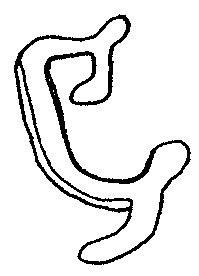
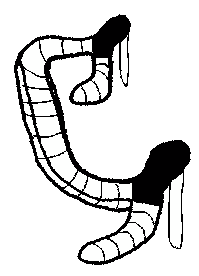
Add scaling, mobile apology and re-color everything but the frame

diff --git a/bike.ts b/bike.ts
@@ -364,6 +364,8 @@ function drawIconGroup(
             drawIconGroup(ctx, child, startState, endState, progress, offset)
         }
     }
+
+    // Replace all instances of 
 }
 
 function drawImg(ctx: CanvasRenderingContext2D, img: HTMLImageElement, [dx, dy]: [number, number]) {
@@ -449,7 +451,7 @@ function getLabel(rgb: [number, number, number]) {
     
     if(eq(rgb, [0, 0, 1]) || eq(rgb, [255, 255, 254])) return "frame"
     if(eq(rgb, [0, 1, 0]) || eq(rgb, [255, 254, 255])) return "fork" 
-    if(eq(rgb, [0, 1, 1]) || eq(rgb, [255, 254, 254])) return "seat" 
+    if(eq(rgb, [0, 1, 1]) || eq(rgb, [223, 223, 223])) return "seat" 
     if(eq(rgb, [1, 0, 0]) || eq(rgb, [254, 255, 255])) return "stem" 
     if(eq(rgb, [1, 0, 1]) || eq(rgb, [254, 255, 254])) return "handlebars"
     if(eq(rgb, [1, 1, 1]) || eq(rgb, [254, 254, 254])) return "brake"
@@ -458,9 +460,9 @@ function getLabel(rgb: [number, number, number]) {
     if(eq(rgb, [1, 2, 2]) || eq(rgb, [254, 253, 253])) return "cassette"
     if(eq(rgb, [2, 1, 1]) || eq(rgb, [253, 254, 254])) return "chain"
     if(eq(rgb, [2, 1, 2]) || eq(rgb, [253, 254, 253])) return "rear_derailleur"
-    if(eq(rgb, [2, 1, 3]) || eq(rgb, [253, 254, 252])) return "front_derailleur"
+    if(eq(rgb, [2, 1, 3]) || eq(rgb, [224, 224, 224])) return "front_derailleur"
     if(eq(rgb, [2, 2, 1]) || eq(rgb, [253, 253, 254])) return "derailleur_hanger"
-    if(eq(rgb, [2, 2, 2]) || eq(rgb, [253, 253, 253])) return "crank"
+    if(eq(rgb, [2, 2, 2]) || eq(rgb, [222, 222, 222])) return "crank"
     if(eq(rgb, [2, 2, 3]) || eq(rgb, [253, 253, 252])) return "pedal"
     if(eq(rgb, [2, 2, 4]) || eq(rgb, [253, 253, 251])) return "flat_pedal"
     if(eq(rgb, [2, 2, 5]) || eq(rgb, [253, 253, 250])) return "spd_pedal"
@@ -484,7 +486,7 @@ function getLabel(rgb: [number, number, number]) {
     if(eq(rgb, [4, 1, 0]) || eq(rgb, [251, 254, 255])) return "crown_race"
     if(eq(rgb, [4, 1, 1]) || eq(rgb, [251, 254, 254])) return "pre_load_bolt"
     if(eq(rgb, [4, 1, 2]) || eq(rgb, [251, 254, 253])) return "star_nut" 
-    if(eq(rgb, [4, 2, 1]) || eq(rgb, [251, 253, 254])) return "headset_top_cap" 
+    if(eq(rgb, [4, 2, 1]) || eq(rgb, [221, 221, 221])) return "headset_top_cap" 
     if(eq(rgb, [4, 2, 2]) || eq(rgb, [251, 253, 253])) return "top_cover_assembly" 
         
     return undefined
@@ -1143,12 +1145,19 @@ function init(images: Images) {
         drawInfo(context, newState)
         inTransition = false
     }
+
+    const getCoordinates = (ev: MouseEvent) => {
+        const bounding = canvas.getBoundingClientRect();
+        const scaleFactor = canvas.width / bounding.width;
+        const x = Math.round(ev.offsetX * scaleFactor);
+        const y = Math.round(ev.offsetY * scaleFactor);
+        return { x, y };
+    }
+
     canvas.addEventListener("click", ev => {
         if (inTransition) return
 
-        const bounding = canvas.getBoundingClientRect();
-        const x = ev.clientX - bounding.left;
-        const y = ev.clientY - bounding.top;
+        const { x, y } = getCoordinates(ev);
 
         const pixel = context.getImageData(x, y, 1, 1);
         const data = pixel.data;
@@ -1185,17 +1194,13 @@ function init(images: Images) {
         }
     })
 
-    const label = document.getElementById("label")
     canvas.addEventListener("mousemove", ev => {
-        const bounding = canvas.getBoundingClientRect();
-        const x = ev.clientX - bounding.left;
-        const y = ev.clientY - bounding.top;
+        const { x, y } = getCoordinates(ev);
 
         const pixel = context.getImageData(x, y, 1, 1);
         const data = pixel.data;
-
         const labelText = getLabel([data[0], data[1], data[2]]);
-        label.textContent = labelText;
+        
     })
 
     clearCanvas(context)

diff --git a/public/index.html b/public/index.html
@@ -3,11 +3,30 @@
 <head>
   <meta name="viewport" content="width=device-width, initial-scale=1">
   <meta charset="utf-8"/>
-  <title>Bici</title>
+  <link rel="stylesheet" type="text/css" href="styles.css" />
+  <title>Bicyclopedia</title>
 </head>
 <body>
-<canvas id="bike_canvas" width="1340" height="750"></canvas>
-<div id="label"></div>
+<div id="canvas_container">
+  <canvas id="bike_canvas" width="1340" height="750">
+    <h1>Welcome!</h1>
+    <p>This is an interactive exploration of the parts of a bicycle.</p>
+    <p>If you're reading this message, the images may still be loading.</p>
+    <p>If you are using a screen reader or have Javascript disabled, unfortunately you won't be able to see the images or animations of the parts, but you can still read the descriptions <a href="/text.hml">here</a>.</p>
+    <p>If you want to read the Typescript source for this page, you can find it <a href="https://github.com/nlemoing/bici/tree/master/bike.ts">here</a>.</p>
+    <p>Finally, for a writeup about the project, see here.</p>
+    <p>Thank you for visiting!</p>
+  </canvas>
+</div>
+<div id="mobile_apology">
+  <p>You can use still this site on a mobile device, but it won't be as sharp for a few reasons:</p>
+  <ul>
+    <li>Bikes fit better in a landscape orientation and I haven't had time to build a portrait orientation of this site!</li>
+    <li>Many of the bike parts are quite small and harder to click with fat fingers than they are with a mouse.</li>
+    <li>You can't hover over items to see what they're called.</li>
+  </ul>
+  <p>Sorry about that! If you have some time, check it out on a laptop or desktop computer!</p>
+</div>
 </body>
 <script src="/bike.js"></script>
 </html>

diff --git a/public/styles.css b/public/styles.css
@@ -1,0 +1,26 @@
+body {
+    font-family: monospace;
+    margin: 0;
+}
+
+#canvas_container {
+    display: flex;
+    justify-content: center;
+    height: 100vh;
+}
+
+#bike_canvas {
+    max-height: 100%;
+    width: 100%;
+    max-width: 1340px;
+}
+
+#mobile_apology {
+    display: none;
+}
+
+@media (max-width: 768px) {
+    #mobile_apology {
+        display: inline;
+    }
+}

diff --git a/image_processing/colour_map.py b/image_processing/colour_map.py
@@ -35,7 +35,7 @@ def transform(name, black_value=BLACK, white_value=WHITE, red_value=RED, green_v
 # Use an encoding which maps black to a unique colour very close to black, and same for white, for each image
 transform("./public/bike/frame.png", np.array([0, 0, 1, 255]), np.array([255, 255, 254, 255]))
 transform("./public/bike/fork.png", np.array([0, 1, 0, 255]), np.array([255, 254, 255, 255]))
-transform("./public/bike/seat.png", np.array([0, 1, 1, 255]), np.array([255, 254, 254, 255]))
+transform("./public/bike/seat.png", np.array([0, 1, 1, 255]), np.array([223, 223, 223, 255]))
 transform("./public/bike/stem.png", np.array([1, 0, 0, 255]), np.array([254, 255, 255, 255]))
 transform("./public/bike/handlebars.png", np.array([1, 0, 1, 255]), np.array([254, 255, 254, 255]))
 transform("./public/bike/brake.png", np.array([1, 1, 1, 255]), np.array([254, 254, 254, 255]))
@@ -45,9 +45,9 @@ transform("./public/bike/chainring.png", np.array([1, 2, 1, 255]), np.array([254
 transform("./public/bike/cassette.png", np.array([1, 2, 2, 255]), np.array([254, 253, 253, 255]))
 transform("./public/bike/chain.png", np.array([2, 1, 1, 255]), np.array([253, 254, 254, 255]))
 transform("./public/bike/rear_derailleur.png", np.array([2, 1, 2, 255]), np.array([253, 254, 253, 255]))
-transform("./public/bike/front_derailleur.png", np.array([2, 1, 3, 255]), np.array([253, 254, 252, 255]))
+transform("./public/bike/front_derailleur.png", np.array([2, 1, 3, 255]), np.array([224, 224, 224, 255]))
 transform("./public/bike/derailleur_hanger.png", np.array([2, 2, 1, 255]), np.array([253, 253, 254, 255]))
-transform("./public/bike/crank.png", np.array([2, 2, 2, 255]), np.array([253, 253, 253, 255]))
+transform("./public/bike/crank.png", np.array([2, 2, 2, 255]), np.array([222, 222, 222, 255]))
 
 transform("./public/bike/pedal.png", np.array([2, 2, 3, 255]), np.array([253, 253, 252, 255]))
 transform("./public/bike/flat_pedal.png", np.array([2, 2, 4, 255]), np.array([253, 253, 251, 255]))
@@ -82,5 +82,5 @@ transform("./public/bike/top_cup.png", np.array([4, 0, 1, 255]), np.array([251, 
 transform("./public/bike/crown_race.png", np.array([4, 1, 0, 255]), np.array([251, 254, 255, 255]))
 transform("./public/bike/pre_load_bolt.png", np.array([4, 1, 1, 255]), np.array([251, 254, 254, 255]))
 transform("./public/bike/star_nut.png", np.array([4, 1, 2, 255]), np.array([251, 254, 253, 255]))
-transform("./public/bike/top_cap.png", np.array([4, 2, 1, 255]), np.array([251, 253, 254, 255]))
+transform("./public/bike/top_cap.png", np.array([4, 2, 1, 255]), np.array([221, 221, 221, 255]))
 transform("./public/bike/top_cover_assembly.png", np.array([4, 2, 2, 255]), np.array([251, 253, 253, 255]))

diff --git a/README.md b/README.md
@@ -14,8 +14,9 @@ This is an interactive diagram of a bike. The scripts for animations are all def
 * [x] State machine
 * [x] Info card template
 * [x] State descriptions
+* [x] Screen reader/nojs excuse
+* [x] Mobile excuse
+* [x] Screen scaling
 * [ ] Handwritten labels on hover
-* [ ] Screen scaling
-* [ ] Mobile support
 * [ ] Info link
 * [ ] Colour picker
